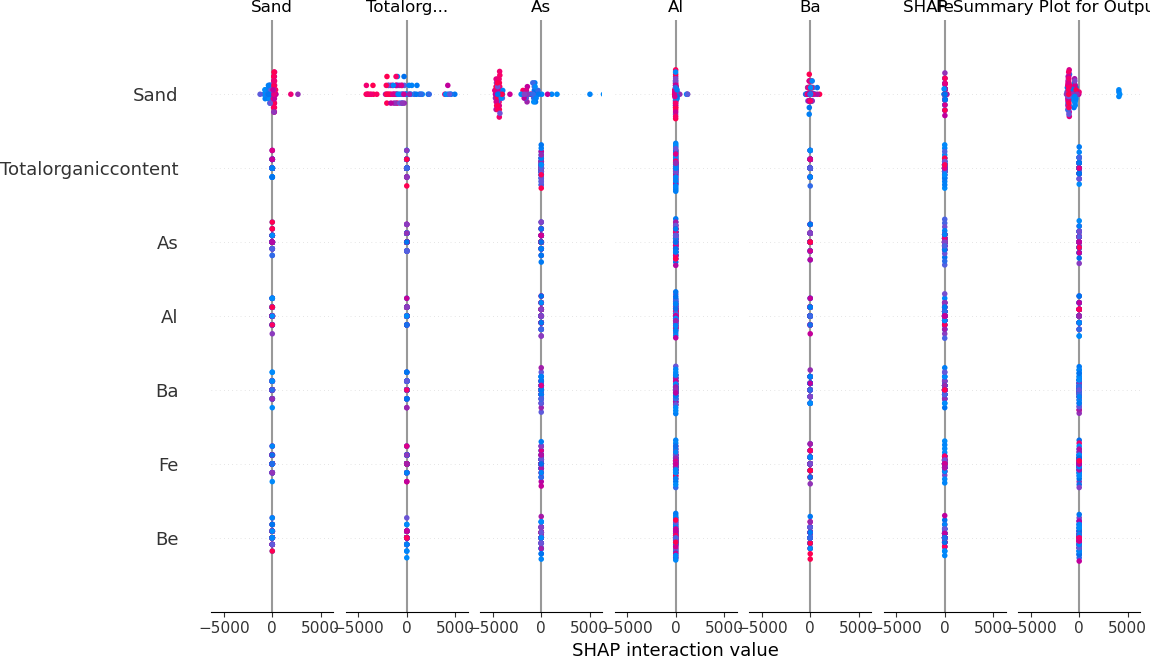
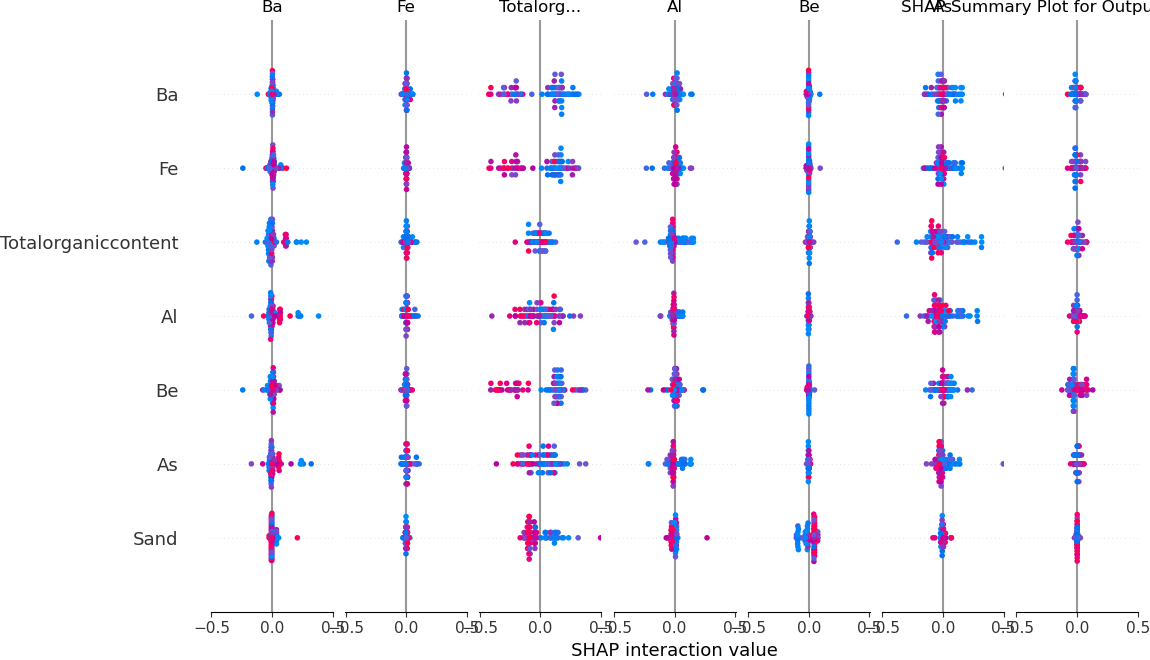
added SQI as target variable

diff --git a/src/utils/models.py b/src/utils/models.py
@@ -32,6 +32,19 @@ class Model:
                 sep=",",
                 encoding="utf-8")
 
+        # self.X_train_scaled = pd.read_csv("../../data/preprocessed/X_train_SQI.csv",
+        #         sep=",",
+        #         encoding="utf-8")
+        # self.y_train_scaled = pd.read_csv("../../data/preprocessed/y_train_SQI.csv",
+        #         sep=",",
+        #         encoding="utf-8")
+        # self.X_test_scaled = pd.read_csv("../../data/preprocessed/X_test_SQI.csv",
+        #         sep=",",
+        #         encoding="utf-8")
+        # self.y_test_scaled = pd.read_csv("../../data/preprocessed/y_test_SQI.csv",
+        #         sep=",",
+        #         encoding="utf-8")
+        
         self.X_train_scaled = pd.read_csv("../../data/preprocessed/X_train_scaled.csv",
                 sep=",",
                 encoding="utf-8")
@@ -50,16 +63,16 @@ class Model:
 
     def linearModel(self):
         model = LinearRegression()
-        self.y_train = self.y_train['S']
-        self.y_test = self.y_test['S']
-        model.fit(self.X_train, self.y_train)
-        y_pred = model.predict(self.X_test)
+        # self.y_train_scaled = self.y_train_scaled['S']
+        # self.y_test_scaled = self.y_test_scaled['S']
+        model.fit(self.X_train_scaled, self.y_train_scaled)
+        y_pred = model.predict(self.X_test_scaled)
         
         # Step 2: Calculate evaluation metrics
-        mse = mean_squared_error(self.y_test, y_pred)
+        mse = mean_squared_error(self.y_test_scaled, y_pred)
         rmse = np.sqrt(mse)
-        mae = mean_absolute_error(self.y_test, y_pred)
-        r2 = r2_score(self.y_test, y_pred)
+        mae = mean_absolute_error(self.y_test_scaled, y_pred)
+        r2 = r2_score(self.y_test_scaled, y_pred)
         
         # Print evaluation metrics
         print("\n Linear Regression")
@@ -70,14 +83,14 @@ class Model:
         
         # Step 4: Use SHAP to explain the model's predictions
         # Initialize the SHAP explainer
-        explainer = shap.Explainer(model, self.X_train)
+        explainer = shap.Explainer(model, self.X_train_scaled)
 
         # Calculate SHAP values
-        shap_values = explainer(self.X_test)
+        shap_values = explainer(self.X_test_scaled)
 
-        print("X_test columns", self.X_test.columns)
+        print("X_test columns", self.X_test_scaled.columns)
         print("shap_values Shape", shap_values.shape)  # Should match the number of rows and features
-        print("X_test shape", self.X_test.shape)
+        print("X_test shape", self.X_test_scaled.shape)
 
 
         shap_values_single_output = shap_values[..., 0]  # or choose any output index you want (0 to 6)
@@ -123,14 +136,14 @@ class Model:
 
         
         model = RandomForestRegressor(n_estimators=100, random_state=42)
-        model.fit(self.X_train, self.y_train)
+        model.fit(self.X_train_scaled, self.y_train_scaled)
 
         # Make predictions
-        y_pred = model.predict(self.X_test)
-        mse = mean_squared_error(self.y_test, y_pred)
+        y_pred = model.predict(self.X_test_scaled)
+        mse = mean_squared_error(self.y_test_scaled, y_pred)
         rmse = np.sqrt(mse)
-        mae = mean_absolute_error(self.y_test, y_pred)
-        r2 = r2_score(self.y_test, y_pred)
+        mae = mean_absolute_error(self.y_test_scaled, y_pred)
+        r2 = r2_score(self.y_test_scaled, y_pred)
 
 
         print("\n Random Forest regressor")
@@ -140,14 +153,14 @@ class Model:
         print(f"R-squared (R2): {r2:.3f}")
         
         # Explainer object
-        explainer = shap.TreeExplainer(model, self.X_train)
+        explainer = shap.TreeExplainer(model, self.X_train_scaled)
 
         # Calculate SHAP values for X_test
-        shap_values = explainer(self.X_test)
+        shap_values = explainer(self.X_test_scaled)
 
         # Print shapes to confirm
         print("Shape of shap_values:", shap_values.shape)
-        print("Shape of X_test:", self.X_test.shape)
+        print("Shape of X_test:", self.X_test_scaled.shape)
 
         # Convert SHAP values object to array
         shap_values_array = shap_values.values  # This should have shape (n_samples, n_features)
@@ -168,15 +181,15 @@ class Model:
             explainer = shap.TreeExplainer(est)
             
             # Compute SHAP values for the test data
-            shap_values = explainer.shap_values(self.X_test)
+            shap_values = explainer.shap_values(self.X_test_scaled)
             
             # Append SHAP values to the list
             shap_values_list.append(shap_values[i])
-            file_name = "GBoost_SHAP_" + self.y_test.columns[i]
+            file_name = "GBoost_SHAP_" + self.y_test_scaled.columns[i]
             
             # Optionally, plot the summary for each output
-            shap.summary_plot(shap_values, self.X_test, show=False, feature_names=self.X_train.columns)
-            plt.title(f'SHAP Summary Plot for Output {self.y_test.columns[i]}')
+            shap.summary_plot(shap_values, self.X_test_scaled, show=False, feature_names=self.X_train_scaled.columns)
+            plt.title(f'SHAP Summary Plot for Output {self.y_test_scaled.columns[i]}')
             # plt.show()
             plt.savefig(
             os.path.join("../../results/SHAP", file_name)
@@ -233,13 +246,13 @@ class Model:
         
 
 
-        model.fit(self.X_train, self.y_train)
-        y_pred = model.predict(self.X_test)
+        model.fit(self.X_train_scaled, self.y_train_scaled)
+        y_pred = model.predict(self.X_test_scaled)
         
-        mse = mean_squared_error(self.y_test, y_pred)
+        mse = mean_squared_error(self.y_test_scaled, y_pred)
         rmse = np.sqrt(mse)
-        mae = mean_absolute_error(self.y_test, y_pred)
-        r2 = r2_score(self.y_test, y_pred)
+        mae = mean_absolute_error(self.y_test_scaled, y_pred)
+        r2 = r2_score(self.y_test_scaled, y_pred)
 
         print("\n Gradient Boosting regression")
         print(f"Mean Absolute Error (MAE): {mae:.3f}")
@@ -257,15 +270,15 @@ class Model:
             explainer = shap.TreeExplainer(est)
             
             # Compute SHAP values for the test data
-            shap_values = explainer.shap_values(self.X_test)
+            shap_values = explainer.shap_values(self.X_test_scaled)
             
             # Append SHAP values to the list
             shap_values_list.append(shap_values[i])
-            file_name = "GBoost_SHAP_" + self.y_test.columns[i]
+            file_name = "GBoost_SHAP_" + self.y_test_scaled.columns[i]
             
             # Optionally, plot the summary for each output
-            shap.summary_plot(shap_values, self.X_test, show=False, feature_names=self.X_train.columns)
-            plt.title(f'SHAP Summary Plot for Output {self.y_test.columns[i]}')
+            shap.summary_plot(shap_values, self.X_test_scaled, show=False, feature_names=self.X_train_scaled.columns)
+            plt.title(f'SHAP Summary Plot for Output {self.y_test_scaled.columns[i]}')
             # plt.show()
             plt.savefig(
             os.path.join("../../results/SHAP", file_name)
@@ -281,16 +294,16 @@ class Model:
         model = MLPRegressor(hidden_layer_sizes=(50,25), activation="tanh",solver="adam" , max_iter=500, random_state=42)
 
         # Train the model
-        model.fit(self.X_train_scaled, self.y_train)
+        model.fit(self.X_train_scaled, self.y_train_scaled)
 
         # Make predictions
         y_pred = model.predict(self.X_test_scaled)
 
         # Evaluate the model
-        mse = mean_squared_error(self.y_test, y_pred)
+        mse = mean_squared_error(self.y_test_scaled, y_pred)
         rmse = np.sqrt(mse)
-        mae = mean_absolute_error(self.y_test, y_pred)
-        r2 = r2_score(self.y_test, y_pred)
+        mae = mean_absolute_error(self.y_test_scaled, y_pred)
+        r2 = r2_score(self.y_test_scaled, y_pred)
 
         print("\n MLP regression")
         print(f'Mean Squared Error: {mae:.2f}')

diff --git a/src/utils/Preprocessor.py b/src/utils/Preprocessor.py
@@ -5,6 +5,7 @@ from datetime import datetime
 import openpyxl
 from sklearn.preprocessing import StandardScaler, MinMaxScaler
 from sklearn.model_selection import train_test_split
+import numpy as np
 
 
 
@@ -56,6 +57,10 @@ class Preprocessor():
 
         X_train_scaled, X_test_scaled, y_train_scaled, y_test_scaled = self.normalise(X_train, X_test, y_train, y_test)
 
+        SQI  = pd.DataFrame(df_cleaned["SQILowerlimit"])
+        X_train_SQI, X_test_SQI, y_train_SQI, y_test_SQI = self.trainTestSplit(tempSediment, SQI)
+        X_train_SQI, X_test_SQI, y_train_SQI, y_test_SQI = self.normalise(X_train_SQI, X_test_SQI, y_train_SQI, y_test_SQI)
+
 
 
         X_train.to_csv(os.path.join(self.savePath,'../preprocessed/X_train.csv'), index=False)
@@ -67,6 +72,7 @@ class Preprocessor():
         y_train_scaled.to_csv(os.path.join(self.savePath,'../preprocessed/y_train_scaled.csv'), index=False)
         X_test_scaled.to_csv(os.path.join(self.savePath,'../preprocessed/X_test_scaled.csv'), index=False)
         y_test_scaled.to_csv(os.path.join(self.savePath,'../preprocessed/y_test_scaled.csv'), index=False)
+        
 
         # Save the two DataFrames to CSV files
         sediment.to_csv(os.path.join(self.savePath,'../preprocessed/sedimentData.csv'), index=False)
@@ -79,6 +85,12 @@ class Preprocessor():
         atlanticMacrofauna.to_csv(os.path.join(self.savePath,'../preprocessed/atlanticMacrofaunaData.csv'), index=False)
         indianSediment.to_csv(os.path.join(self.savePath,'../preprocessed/indianSedimentData.csv'), index=False)
         indianMacrofauna.to_csv(os.path.join(self.savePath,'../preprocessed/indianMacrofaunaData.csv'), index=False)
+        
+        
+        X_train_SQI.to_csv(os.path.join(self.savePath,'../preprocessed/X_train_SQI.csv'), index=False)
+        X_test_SQI.to_csv(os.path.join(self.savePath,'../preprocessed/X_test_SQI.csv'), index=False)
+        y_train_SQI.to_csv(os.path.join(self.savePath,'../preprocessed/y_train_SQI.csv'), index=False)
+        y_test_SQI.to_csv(os.path.join(self.savePath,'../preprocessed/y_test_SQI.csv'), index=False)
         
         
 
@@ -126,7 +138,7 @@ class Preprocessor():
         X_test_scaled = pd.DataFrame(scaler.transform(X_test), columns=X_test.columns)
 
         target_scaler = MinMaxScaler()
-        y_train_scaled = pd.DataFrame(target_scaler.fit_transform(y_train), columns=y_train.columns)  # Reshape if y is a 1D array
+        y_train_scaled = pd.DataFrame(target_scaler.fit_transform(y_train), columns=y_train.columns)
         y_test_scaled = pd.DataFrame(target_scaler.transform(y_test), columns=y_test.columns)
         
         return X_train_scaled, X_test_scaled, y_train_scaled, y_test_scaled

diff --git a/src/data/main.py b/src/data/main.py
@@ -15,8 +15,9 @@ RETRIEVE_DATA_PATH = "../../data/preprocessed"
 SAVE_RESULTS_PATH = "../../results/"
 
 
-DO_PREPROCESSING = False
+DO_PREPROCESSING = True
 DO_VISULAIZATION = False
+DO_MODELS = True
 
 if __name__ == "__main__":
     
@@ -33,8 +34,11 @@ if __name__ == "__main__":
     else:
         print("Skipped visualisation")
     
-    model = Model(path=RETRIEVE_DATA_PATH)
-    # model.linearModel()
-    model.randomForest()
-    # model.GBoostRegressor()
-    # model.NN()
+    if DO_MODELS == True:
+        model = Model(path=RETRIEVE_DATA_PATH)
+        model.linearModel()
+        model.randomForest()
+        model.GBoostRegressor()
+        model.NN()
+    else:
+        print("Skipped models")
